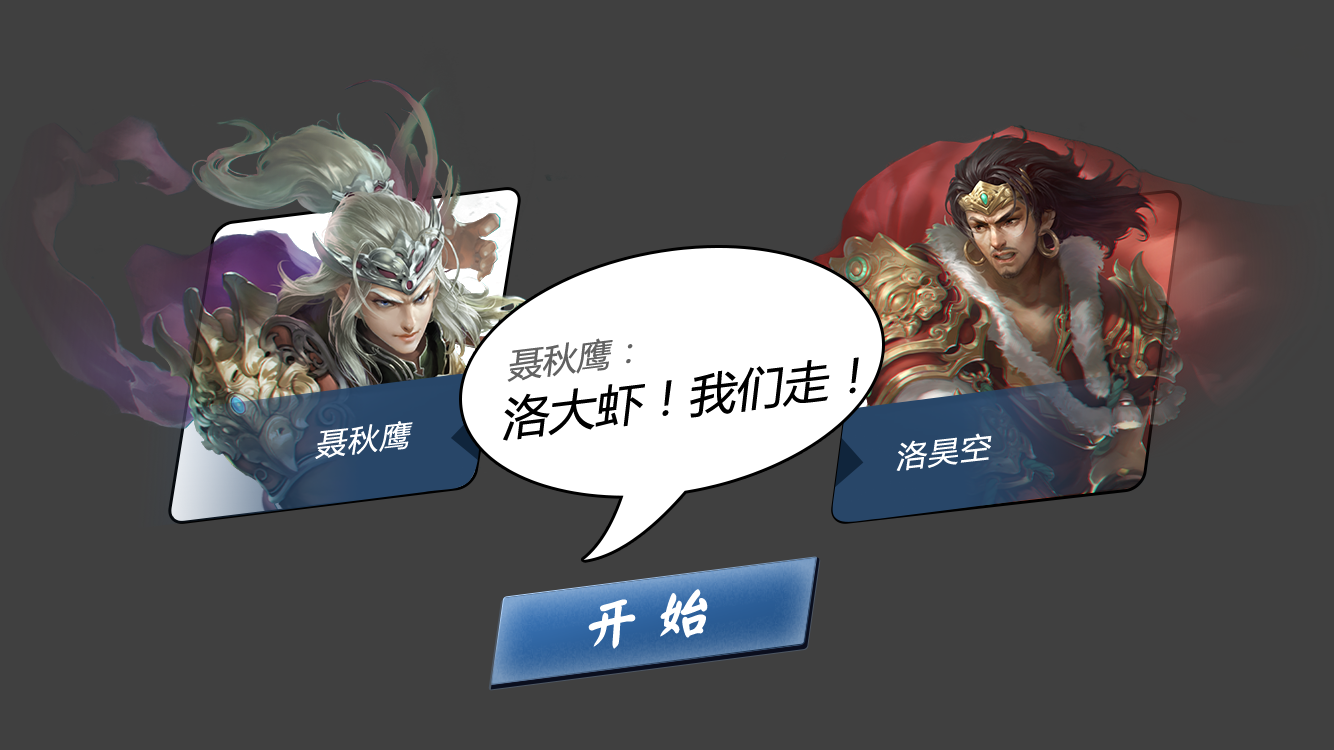
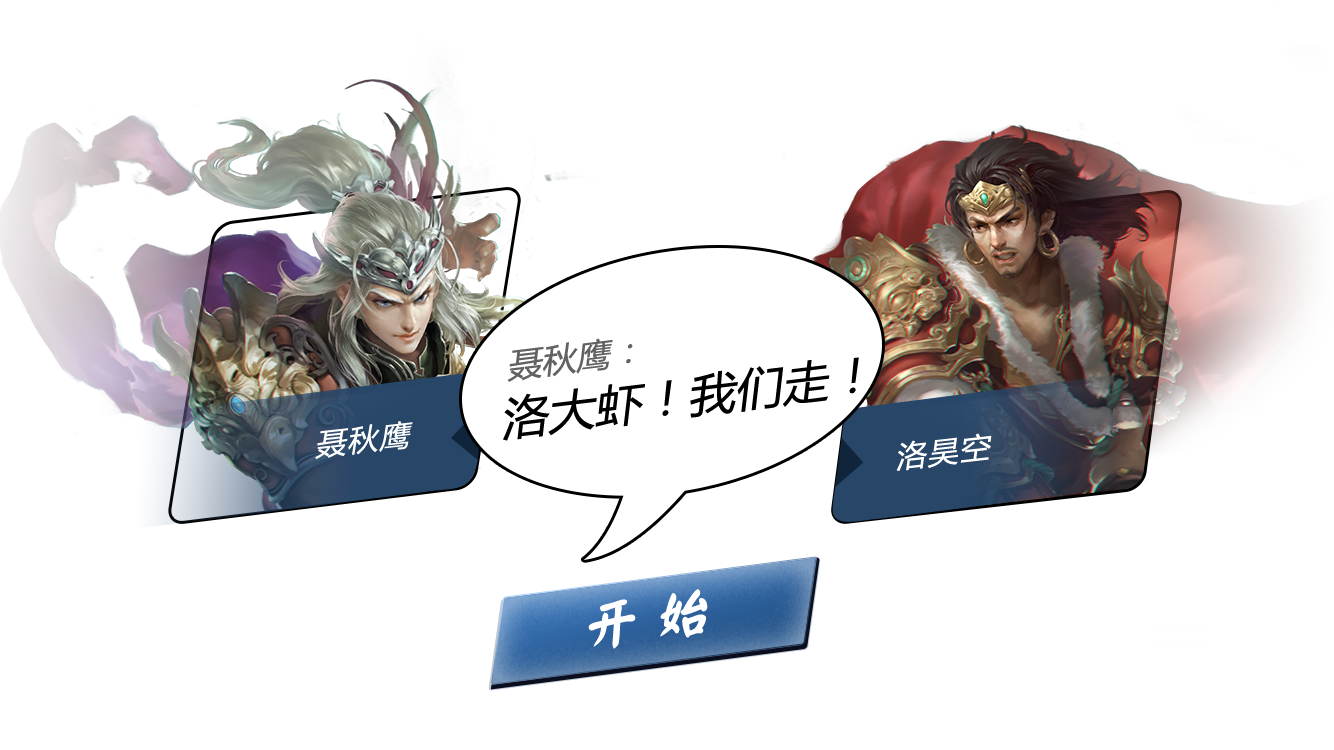
更新皮皮虾

diff --git a/demos/letsgopipixia/js/play.js b/demos/letsgopipixia/js/play.js
@@ -9,21 +9,26 @@ var playState = (function() {
         killed = false,
         talk,
         tip1,
-        tip2;
+        tip2,
+        runBtn,
+        jumpBtn;
 
     return {
         preload: function() {
-            $('.play-state-wrap').show();
             game.load.spritesheet('player', 'assets/player.png', 108, 100);
             game.load.tilemap('floor', 'assets/map1.json', null, Phaser.Tilemap.TILED_JSON);
             game.load.image('tiles-floor', 'assets/floor.png');
             game.load.image('talk', 'assets/talk.png');
             game.load.image('tip1', 'assets/tip1.png');
             game.load.image('tip2', 'assets/tip2.png');
+            game.load.spritesheet('run', 'assets/run.png', 100, 100);
+            game.load.spritesheet('jump', 'assets/jump.png', 100, 100);
             game.load.spritesheet('enemy', 'assets/enemy.png', 46, 30);
             game.load.spritesheet('xiaoqian', 'assets/xiaoqian.png', 42, 100);
         },
         create: function() {
+            game.load.onLoadComplete.add(resetTime, this);
+
             // 重置killed状态
             killed = false;
 
@@ -50,16 +55,12 @@ var playState = (function() {
             player.body.gravity.y = 1000;
             player.body.collideWorldBounds = true;
 
-            player.inputEnabled = true;
-            player.events.onInputDown.add(function() {
-                player.position.x += 80;
-            });
-
             //  玩家动画
             player.animations.add('right', [0, 1], 10, true);
 
             // 镜头跟随
-            game.camera.follow(player, Phaser.Camera.STYLE_LOCKON, 1, 1);
+            // game.camera.follow(player, Phaser.Camera.STYLE_LOCKON, 1, 1);
+            game.camera.y = HEIGHT - 80
 
             // 对话框
             talk = game.add.image(32 + 40, 50 - 60, 'talk');
@@ -86,17 +87,30 @@ var playState = (function() {
             xiaoqian.body.gravity.y = 1000;
 
             // 地图上方小倩对话框
-            tip1 = game.add.image(WIDTH / 2, HEIGHT / 2 - 100, 'tip1');
+            tip1 = game.add.image(WIDTH / 2, 120, 'tip1');
             tip1.anchor.setTo(0.5, 0.5);
             tip1.scale.set(0.4);
             tip1.fixedToCamera = true;
             tip1.visible = false;
 
-            tip2 = game.add.image(WIDTH / 2, HEIGHT / 2 - 100, 'tip2');
+            tip2 = game.add.image(WIDTH / 2, 120, 'tip2');
             tip2.anchor.setTo(0.5, 0.5);
             tip2.scale.set(0.4);
             tip2.fixedToCamera = true;
             tip2.visible = false;
+
+            if (!support) {
+                runBtn = game.add.button(60, HEIGHT - 50, 'run', null, this, 0, 0, 1);
+                runBtn.anchor.setTo(0.5, 0.5);
+                runBtn.scale.set(0.5);
+                runBtn.fixedToCamera = true;
+
+
+                jumpBtn = game.add.button(WIDTH - 60, HEIGHT - 50, 'jump', null, this, 0, 0, 1);
+                jumpBtn.anchor.setTo(0.5, 0.5);
+                jumpBtn.scale.set(0.5);
+                jumpBtn.fixedToCamera = true;
+            }
         },
         update: function() {
             var volume = meter ? meter.volume * 1000 : 0,
@@ -104,6 +118,8 @@ var playState = (function() {
 
             //  重置速度
             player.body.velocity.x = 0;
+
+            game.camera.x = player.position.x - 50;
 
             // 下落死亡逻辑
             if (player.position.y >= game.world.height - 105) {
@@ -127,7 +143,7 @@ var playState = (function() {
                 talk.position.x = player.position.x + 40;
                 talk.position.y = player.position.y - 60;
             } else {
-                talk.visible = false;
+                talk.kill();
             }
 
             // 小倩对话框
@@ -173,22 +189,37 @@ var playState = (function() {
             game.physics.arcade.overlap(player, enemyGroup, this.killed, null, this);
 
             // 更新玩家速度
-            if (volume > 20) {
-                if (volume > MAX_SPEED) {
-                    player.body.velocity.x = MAX_SPEED;
+            if (support) {
+                if (volume > 20) {
+                    if (volume > MAX_SPEED) {
+                        player.body.velocity.x = MAX_SPEED;
+                    } else {
+                        player.body.velocity.x = volume;
+                    }
+                    player.animations.play('right');
                 } else {
-                    player.body.velocity.x = volume;
+                    player.body.velocity.x = 0;
+                    player.animations.stop();
+                    player.frame = 0;
                 }
-                player.animations.play('right');
             } else {
-                player.body.velocity.x = 0;
-                player.animations.stop();
-                player.frame = 0;
+                if (runBtn.frame == 1) {
+                    player.body.velocity.x = MAX_SPEED;
+                    player.animations.play('right');
+                } else {
+                    player.animations.stop();
+                }
             }
 
             // 玩家跳跃
-            if (volume > JUMP_SPEED && (player.body.touching.down || collideWithFloor) && player.position.y < 440) {
-                player.body.velocity.y = -550;
+            if (support) {
+                if (volume > JUMP_SPEED && (player.body.touching.down || collideWithFloor) && player.position.y < 440) {
+                    player.body.velocity.y = -550;
+                }
+            } else {
+                if (jumpBtn.frame == 1 && (player.body.touching.down || collideWithFloor) && player.position.y < 440) {
+                    player.body.velocity.y = -550;
+                }
             }
 
             // 完成游戏逻辑
@@ -198,12 +229,9 @@ var playState = (function() {
             // }
 
             // 更新游戏背景位置，凸显层次感
-            $('.bg-img').css({
-                'transform': 'translateX(' + -game.camera.x * 0.2 + 'px)'
-            });
-        },
-        render: function() {
-            if (!timeSinceLastGame) timeSinceLastGame = game.time.now;
+            // $('.bg-img').css({
+            //     'transform': 'translateX(' + -game.camera.x * 0.2 + 'px)'
+            // });
         },
 
         killed: function(player, enemy) {
@@ -219,4 +247,8 @@ var playState = (function() {
         }
     }
 
-}())
+    function resetTime() {
+        timeSinceLastGame = game.time.now;
+    }
+
+}());

diff --git a/demos/letsgopipixia/js/menu.js b/demos/letsgopipixia/js/menu.js
@@ -1,18 +1,26 @@
 var menuState = (function() {
-    var menu, mask, start, heart;
+    var menu, mask, start, heart, wholeMask;
 
     function showStart() {
         mask.kill();
+
+        wholeMask = game.add.image(WIDTH / 2, HEIGHT / 2, 'mask');
+        wholeMask.anchor.setTo(0.5, 0.5);
+        wholeMask.scale.set(WIDTH / wholeMask.height, HEIGHT / wholeMask.height);
+        wholeMask.inputEnabled = true;
+        wholeMask.events.onInputDown.add(startGame, game);
+        
         start = game.add.image(WIDTH / 2, HEIGHT / 2, 'menu-start');
         start.anchor.setTo(0.5, 0.5);
-        start.scale.set(WIDTH / start.width, HEIGHT / start.height);
+        start.scale.set(HEIGHT / start.height, HEIGHT / start.height);
         start.inputEnabled = true;
         start.events.onInputDown.add(startGame, game);
 
         heart = game.add.sprite(WIDTH / 2, HEIGHT / 2 - 200, 'menu-heart');
-        heart.scale.set(WIDTH / start.width, HEIGHT / start.height);
+        heart.scale.set(HEIGHT / start.height, HEIGHT / start.height);
         heart.animations.add('flow', [0, 1, 2, 3, 4, 5, 6], 10, true);
         heart.animations.play('flow', null, true);
+
     }
 
     function startGame() {
@@ -23,17 +31,18 @@ var menuState = (function() {
         preload: function() {
             game.load.image('menu-bg', 'assets/menu-bg.jpg');
             game.load.image('menu-mask', 'assets/menu-mask.png');
+            game.load.image('mask', 'assets/mask.png');
             game.load.image('menu-start', 'assets/menu-start.png');
             game.load.spritesheet('menu-heart', 'assets/heart.png', 228, 183);
         },
         create: function() {
             menu = game.add.image(WIDTH / 2, HEIGHT / 2, 'menu-bg');
             menu.anchor.setTo(0.5, 0.5);
-            menu.scale.set(WIDTH / menu.width, HEIGHT / menu.height);
+            menu.scale.set(HEIGHT / menu.height, HEIGHT / menu.height);
 
             mask = game.add.image(WIDTH / 2, HEIGHT / 2, 'menu-mask');
             mask.anchor.setTo(0.5, 0.5);
-            mask.scale.set(WIDTH / mask.width, HEIGHT / mask.height);
+            mask.scale.set(HEIGHT / mask.height, HEIGHT / mask.height);
             mask.inputEnabled = true;
             mask.events.onInputDown.add(showStart, game);
 

diff --git a/demos/letsgopipixia/js/gameOver.js b/demos/letsgopipixia/js/gameOver.js
@@ -4,7 +4,6 @@ var gameOverState = (function() {
         repickBtn;
     return {
         preload: function() {
-            $('.play-state-wrap').show();
             game.load.image('mask', 'assets/mask.png');
             game.load.image('restartBtn', 'assets/restart.png');
             game.load.image('repickBtn', 'assets/repick.png');
@@ -12,18 +11,18 @@ var gameOverState = (function() {
         create: function() {
             mask = game.add.image(WIDTH/2, HEIGHT/2, 'mask');
 
-            var scaleX = WIDTH / mask.width,
+            var scaleX = HEIGHT / mask.height,
                 scaleY = HEIGHT / mask.height;
 
             mask.anchor.setTo(0.5, 0.5);
-            mask.scale.set(scaleX, scaleY);
+            mask.scale.set(WIDTH / mask.width, HEIGHT / mask.height);
 
-            restartBtn = game.add.button(WIDTH/2 + 25, HEIGHT/2 - 60, 'restartBtn', this.restartGame, this);
-            restartBtn.anchor.setTo(0.5, 0.5);
+            restartBtn = game.add.button(WIDTH/2 - 85, HEIGHT/2 - 60, 'restartBtn', this.restartGame, this);
+            restartBtn.anchor.setTo(0, 0.5);
             restartBtn.scale.set(scaleX, scaleY);
 
-            repickBtn = game.add.button(WIDTH/2, HEIGHT/2 + 70, 'repickBtn', this.repickCp, this);
-            repickBtn.anchor.setTo(0.5, 0.5);
+            repickBtn = game.add.button(WIDTH/2 - 85, HEIGHT/2 + 70, 'repickBtn', this.repickCp, this);
+            repickBtn.anchor.setTo(0, 0.5);
             repickBtn.scale.set(scaleX, scaleY);
         },
         update: function() {
@@ -35,7 +34,6 @@ var gameOverState = (function() {
             game.state.start('play');
         },
         repickCp: function() {
-            $('.play-state-wrap').hide();
             game.state.start('menu');
         }
     };

diff --git a/demos/letsgopipixia/js/gameComplete.js b/demos/letsgopipixia/js/gameComplete.js
@@ -8,7 +8,6 @@ var gameCompleteState = (function() {
 
     return {
         preload: function (){
-            $('.play-state-wrap').show();
             game.load.image('again', 'assets/again.png');
             game.load.image('share', 'assets/share.png');
             game.load.image('mask', 'assets/mask.png');
@@ -18,18 +17,18 @@ var gameCompleteState = (function() {
         create: function() {
             mask = game.add.image(WIDTH/2, HEIGHT/2, 'mask');
 
-            var scaleX = WIDTH / mask.width,
+            var scaleX = HEIGHT / mask.height,
                 scaleY = HEIGHT / mask.height;
 
             mask.anchor.setTo(0.5, 0.5);
-            mask.scale.set(scaleX, scaleY);
+            mask.scale.set(WIDTH / mask.width, HEIGHT / mask.height);
 
-            againBtn = game.add.button(WIDTH/2 - 120, HEIGHT/2 + 80, 'again', this.restartGame, this);
-            againBtn.anchor.setTo(0.5, 0.5);
+            againBtn = game.add.button(WIDTH/2 - 120, HEIGHT/2 + 140, 'again', this.restartGame, this);
+            againBtn.anchor.setTo(0.5, 1);
             againBtn.scale.set(scaleX, scaleY);
 
-            shareBtn = game.add.button(WIDTH/2 + 120, HEIGHT/2 + 115, 'share', this.share, this);
-            shareBtn.anchor.setTo(0.5, 0.5);
+            shareBtn = game.add.button(WIDTH/2 + 120, HEIGHT/2 + 140, 'share', this.share, this);
+            shareBtn.anchor.setTo(0.5, 1);
             shareBtn.scale.set(scaleX, scaleY);
 
             word = game.add.image(WIDTH/2 - 40, HEIGHT/2 + 60, 'word');

diff --git a/demos/letsgopipixia/index.html b/demos/letsgopipixia/index.html
@@ -17,9 +17,6 @@
         top: 0;
         z-index: 2;
     }
-    .play-state-wrap {
-        display: none;
-    }
     .bg-img {
         display: block;
         width: auto;
@@ -76,11 +73,9 @@
     <script src="./js/main.js"></script>
 </head>
 <body>
-    <div class="play-state-wrap">
-        <img class="bg-img" src="./assets/background.jpg" alt="">
-        <div class="top-bar"></div>
-        <div class="bottom-bar"></div>
-        <div class="logo"></div>
-    </div>
+    <img class="bg-img" src="./assets/background.jpg" alt="">
+    <div class="top-bar"></div>
+    <div class="bottom-bar"></div>
+    <div class="logo"></div>
 </body>
 </html>

diff --git a/demos/letsgopipixia/js/main.js b/demos/letsgopipixia/js/main.js
@@ -32,7 +32,7 @@ window.onload = function() {
             },
         }, gotStream, didntGetStream);
     } catch (e) {
-        alert('你使用的浏览器不支持该游戏');
+        alert('你使用的浏览器不支持麦克风，请用按钮操作');
     }
     initPhaser();
 }
@@ -49,6 +49,7 @@ function gotStream(stream) {
     // Create a new volume meter and connect it.
     meter = createAudioMeter(audioContext);
     mediaStreamSource.connect(meter);
+    support = true;
 
     // kick off the visual updating
     // initPhaser();

diff --git a/demos/letsgopipixia/js/video.js b/demos/letsgopipixia/js/video.js
@@ -10,11 +10,11 @@ var videoState = (function() {
         create: function() {
             video = game.add.video('start');
 
-            video.play(true);
-            video.loop = false;
-
             //  x, y, anchor x, anchor y, scale x, scale y
             video.addToWorld(WIDTH / 2, HEIGHT / 2, 0.5, 0.5, WIDTH / video.width, HEIGHT / video.height);
+
+            video.play(true);
+            video.loop = false;
 
             // video.onComplete = function() {
             //     game.state.start('play');

diff --git a/demos/letsgopipixia/js/variable.js b/demos/letsgopipixia/js/variable.js
@@ -2,6 +2,7 @@ var audioContext = null;
 var meter = null;
 var WIDTH = 800;
 var HEIGHT = 640;
+var support = false;
 
 var game;
 var time = 0; // 游戏时长
